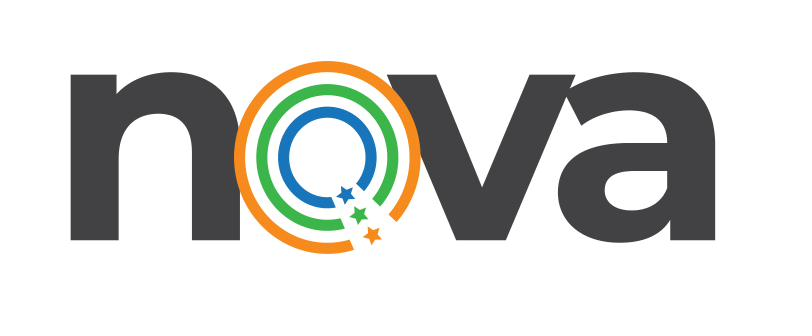
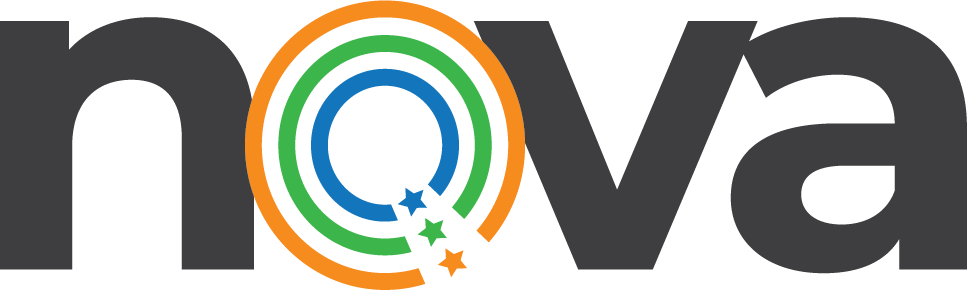
Report three-fix: no save toast on the print path (printReport choke + @media print hide); replace ragged white/colour wordmarks with clean 967px masters (cover + back); back-page foot strip fits one line each (tagline nowrap, legal breaks only at middots, 10px rg)

diff --git a/index.html b/index.html
@@ -2410,6 +2410,10 @@ input.derived-field { background: #f6f8fa; color: #555; }
      Section 2 page master with default margin boxes off. */
   html, body { background: white !important; }
   .topbar, .form-actions, .report-actions, .view-header, .no-print { display: none !important; }
+  /* Transient tool overlays must never be captured on a printed page (the green
+     save toast was printing onto the report cover). Belt-and-braces for every
+     print path; the deliberate pre-print advisory is .no-print already. */
+  #toast, #modal-overlay { display: none !important; }
   .view { display: none !important; }
   #view-report.active { display: block !important; }
   #view-pp.active { display: block !important; }
@@ -2998,9 +3002,13 @@ input.derived-field { background: #f6f8fa; color: #555; }
 
   /* back */
   .sl-report .bk-foot{position:absolute;left:60px;right:60px;bottom:46px;display:flex;
-          justify-content:space-between;align-items:flex-end;gap:32px;}
-  .sl-report .bk-foot .tag{font-size:13px;font-weight:700;color:var(--orange);}
-  .sl-report .bk-foot .rg{font-size:11px;color:rgba(255,255,255,.45);text-align:right;}
+          justify-content:space-between;align-items:flex-end;gap:20px;}
+  /* tagline is a fixed one-line column (never shrinks or wraps); the legal + sample
+     columns take the rest. rg segments are nowrap so the legal line, if it must
+     wrap, breaks only at the middot separators - never inside a word or the URL. */
+  .sl-report .bk-foot .tag{font-size:13px;font-weight:700;color:var(--orange);white-space:nowrap;flex-shrink:0;}
+  .sl-report .bk-foot .rg{font-size:10px;line-height:1.45;color:rgba(255,255,255,.45);text-align:right;min-width:0;}
+  .sl-report .bk-foot .rg .nb{white-space:nowrap;}
   /* back — contact row, four columns, anchored at the foot of .pad via a flex
      spacer above it (the .sl-back .pad carries the extra bottom padding that
      clears the absolute .bk-foot). */
@@ -4208,7 +4216,7 @@ input.derived-field { background: #f6f8fa; color: #555; }
       <div id="report-prewarn-host" class="no-print"></div>
       <div id="report-body"></div>
       <div class="report-actions no-print">
-        <button class="btn btn-primary" onclick="window.print()">Print / Save as PDF</button>
+        <button class="btn btn-primary" onclick="printReport()">Print / Save as PDF</button>
         <button class="link-btn" onclick="backToDetail()">Close</button>
       </div>
     </div>
@@ -4234,7 +4242,7 @@ input.derived-field { background: #f6f8fa; color: #555; }
       </div>
       <div id="pp-body"></div>
       <div class="report-actions no-print">
-        <button class="btn btn-primary" onclick="window.print()">Print / Save as PDF</button>
+        <button class="btn btn-primary" onclick="printReport()">Print / Save as PDF</button>
         <button class="link-btn" onclick="ppBackToDetail()">Close</button>
       </div>
     </div>
@@ -9050,11 +9058,22 @@ function saveSurveyAndPrint() {
     setTimeout(() => showToast('Survey saved · capture faults to generate the report', 'ok'), 100);
     return;
   }
-  setTimeout(() => showToast('Survey saved · ' + saved.id, 'ok'), 100);
+  // No save toast on the print path: the print dialogue is the feedback, and a
+  // toast still on screen at print time was being captured onto the report cover.
   setTimeout(() => {
     goToReportCurrent();
-    setTimeout(() => window.print(), 400);
+    setTimeout(() => printReport(), 400);
   }, 750);
+}
+// The single print choke for the report. Clears any live transient toast (and its
+// auto-hide timer) from the render before opening the print dialogue, so no tool
+// overlay is captured on the printed page - from THIS path or the report's own
+// Print / Save as PDF button. The pre-print advisory is .no-print and untouched.
+function printReport() {
+  const t = document.getElementById('toast');
+  if (t) { t.hidden = true; t.textContent = ''; }
+  if (toastTimer) { clearTimeout(toastTimer); toastTimer = null; }
+  window.print();
 }
 
 // ---- Auto-save draft ----
@@ -19502,7 +19521,7 @@ function slRenderBack(survey) {
     '<div class="bk-foot">' +
       '<div class="tag">The truth from above.</div>' +
       (s.sampleReport ? '<div class="rg">Sample report. Based on a real survey; client identity anonymised.</div>' : '') +
-      '<div class="rg">Nova (SW) Limited &middot; Registered in England &amp; Wales &middot; Company No. 16369950 &middot; nova-limited.com</div>' +
+      '<div class="rg"><span class="nb">Nova (SW) Limited</span> &middot; <span class="nb">Registered in England &amp; Wales</span> &middot; <span class="nb">Company No. 16369950</span> &middot; <span class="nb">nova-limited.com</span></div>' +
     '</div>' +
   '</section>';
 }
